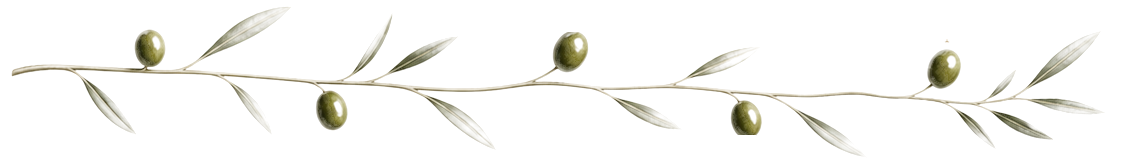
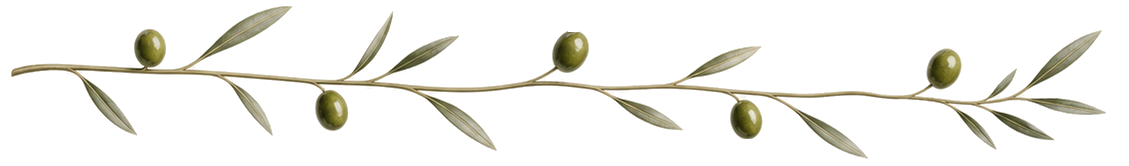
Rebuild approved olive branch alpha

Changed region(s): [[0.0, 0.0301, 0.992, 0.9639], [0.434, 0.8735, 0.465, 0.9036]]

diff --git a/index.html b/index.html
@@ -149,7 +149,7 @@ document.addEventListener('DOMContentLoaded', async function() {
     // discarded by documentElement.replaceWith below.
     template = template.replace(
       /<\/head>/i,
-      '<meta name="robots" content="noindex,nofollow,noarchive"><link rel="stylesheet" href="./approved-deltas.css?v=approved-20260716d"><\/head>'
+      '<meta name="robots" content="noindex,nofollow,noarchive"><link rel="stylesheet" href="./approved-deltas.css?v=approved-20260716e"><\/head>'
     );
     template = template.replace(
       /<\/body>/i,

diff --git a/approved-deltas.css b/approved-deltas.css
@@ -996,7 +996,7 @@ body.olivex-cart-is-open {
   align-self: center;
   justify-self: stretch;
   margin-left: 0;
-  background: url("./assets/olive-branch-five-approved.png?v=2") center / contain no-repeat;
+  background: url("./assets/olive-branch-five-approved.png?v=3") center / contain no-repeat;
   filter: saturate(1.85) contrast(1.32) brightness(0.86);
   pointer-events: none;
 }
